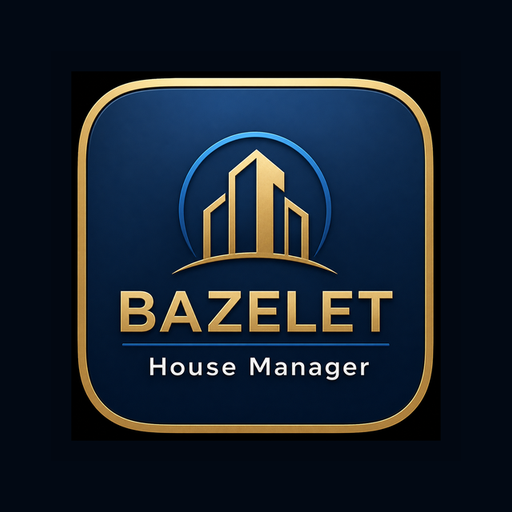
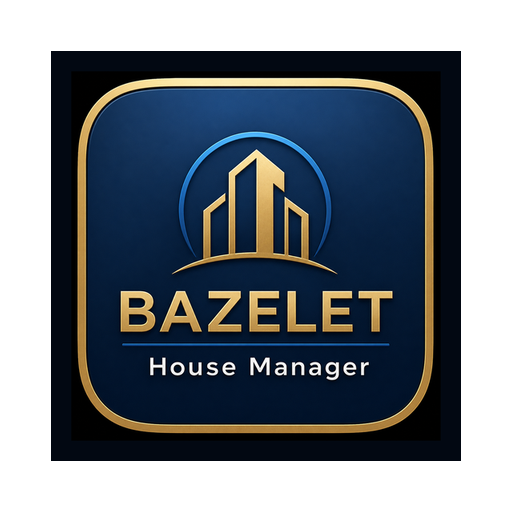
Add files via upload

diff --git a/index.html b/index.html
@@ -9,8 +9,8 @@
 <meta name="apple-mobile-web-app-title" content="BAZELET">
 <meta name="application-name" content="BAZELET">
 <link rel="manifest" href="./manifest.webmanifest">
-<link rel="apple-touch-icon" sizes="180x180" href="./apple-touch-icon.png">
-<link rel="icon" type="image/png" href="./apple-touch-icon.png">
+<link rel="apple-touch-icon" sizes="180x180" href="./apple-touch-icon-v4.png">
+<link rel="icon" type="image/png" href="./apple-touch-icon-v4.png">
 <title>BAZELET House Manager</title>
 <style>
 *{box-sizing:border-box}
@@ -82,7 +82,7 @@ body.standalone .launch{display:flex}
 <body>
 <section class="install">
 <main>
-<img class="logo" src="./apple-touch-icon.png" alt="BAZELET House Manager">
+<img class="logo" src="./apple-touch-icon-v4.png" alt="BAZELET House Manager">
 <h1>BAZELET</h1>
 <p class="sub">House Manager</p>
 <div class="divider"></div>

diff --git a/README.md b/README.md
@@ -1,2 +1,12 @@
-# bazelet-assets
-Public static assets for BAZELET House Manager
+# BAZELET Assets
+
+Active launcher assets:
+
+- `index.html` — GitHub Pages launcher
+- `manifest.webmanifest` — Android/PWA manifest
+- `apple-touch-icon-v4.png` — iPhone/iPad Home Screen icon
+- `icon-192.png` — Android/PWA standard icon
+- `icon-512.png` — Android/PWA high-resolution icon
+- `icon-maskable-512.png` — Android maskable/adaptive PWA icon
+
+Do not add parallel duplicate icon filenames unless the HTML/manifest is intentionally changed.
